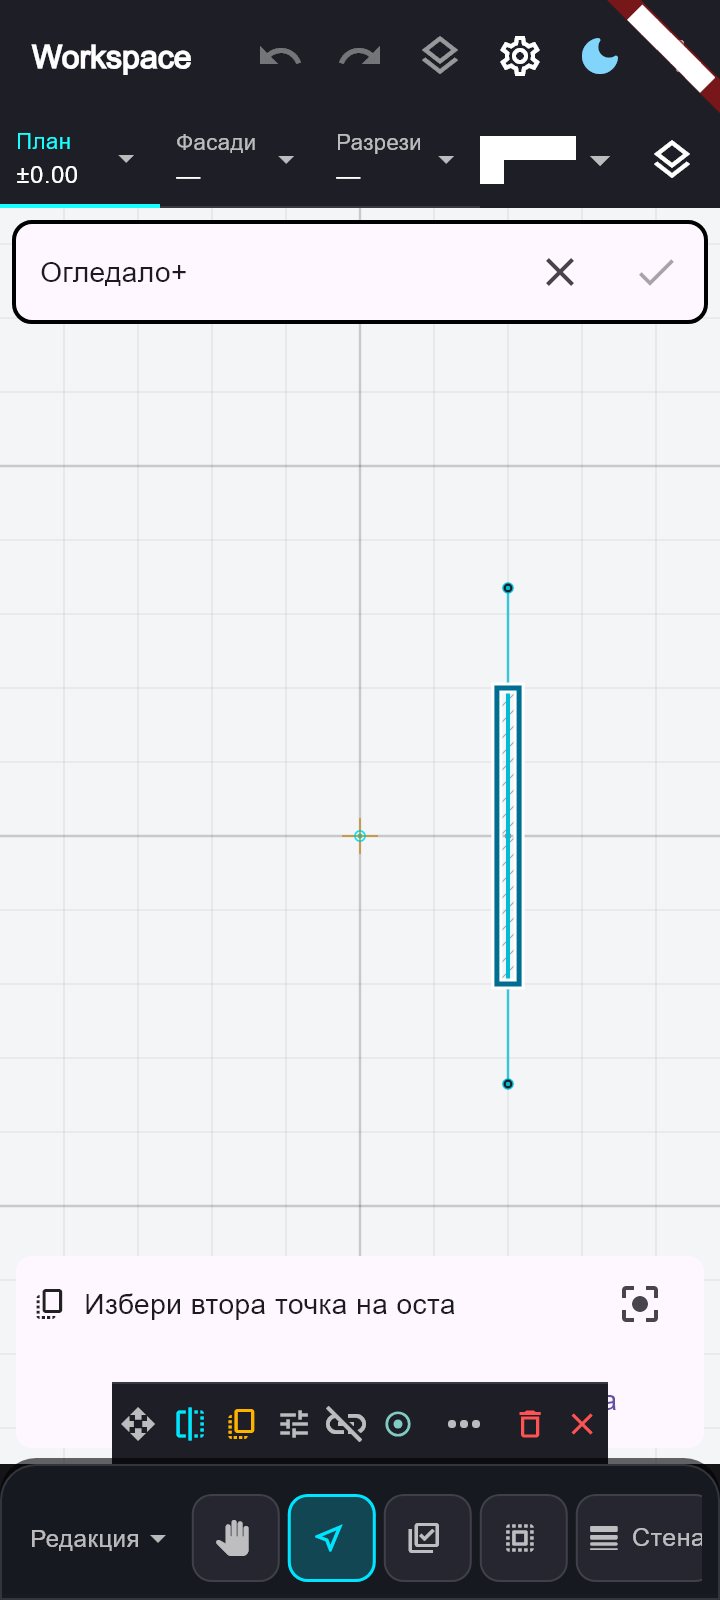
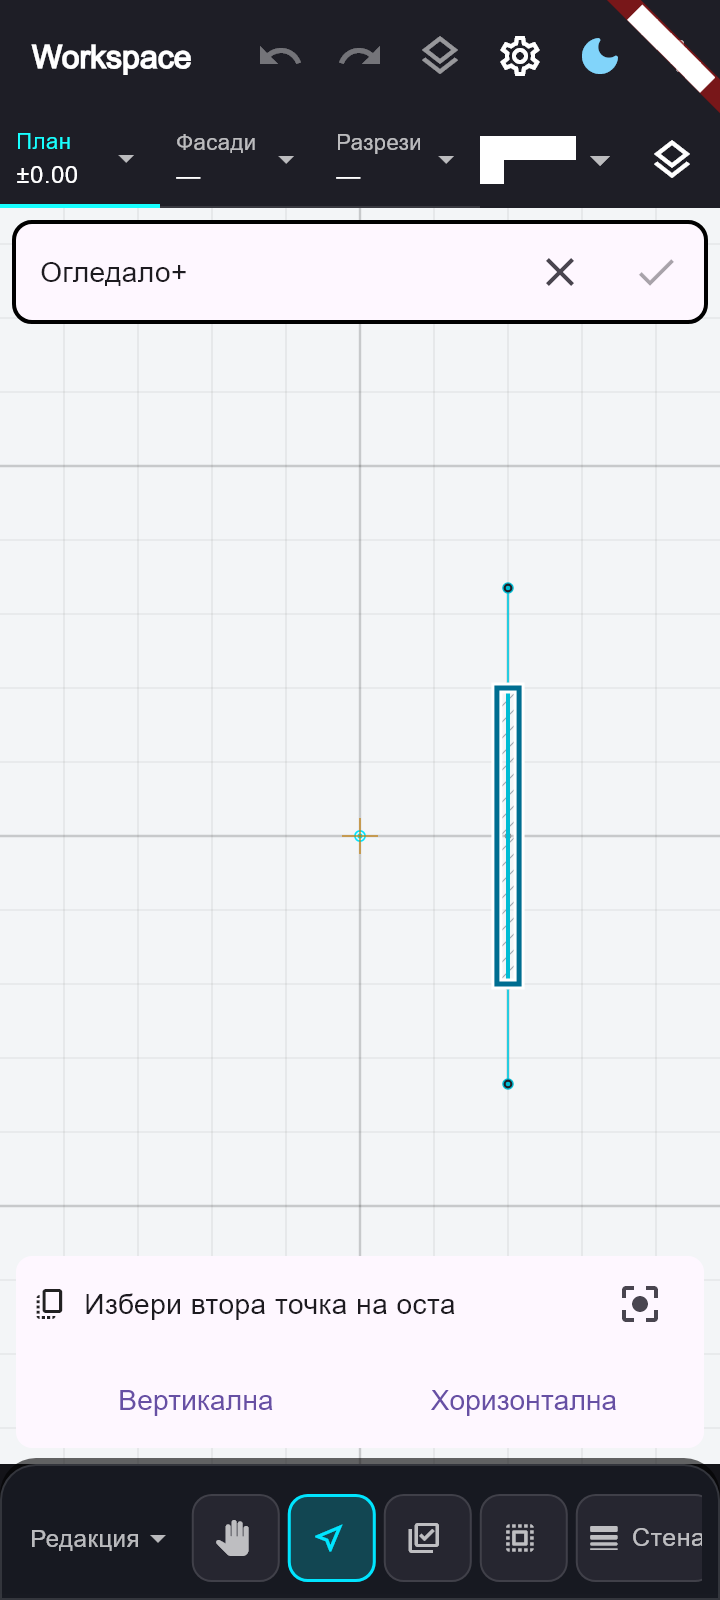
Довършване на потвърждението на геометрични команди

Changed region(s): [[0.1528, 0.8438, 0.8556, 0.9375]]

diff --git a/test/features/architect/command_preview_visual_qa_test.dart b/test/features/architect/command_preview_visual_qa_test.dart
@@ -4,6 +4,7 @@ import 'package:flutter/material.dart';
 import 'package:flutter/rendering.dart';
 import 'package:flutter/services.dart';
 import 'package:flutter_test/flutter_test.dart';
+import 'package:shared_preferences/shared_preferences.dart';
 import 'package:kotoview/src/core/l10n/generated/app_localizations.dart';
 import 'package:kotoview/src/features/architect/models/architect_project.dart';
 import 'package:kotoview/src/features/architect/screens/architect_workspace_screen.dart';
@@ -12,36 +13,64 @@ import 'architect_editing_test.dart' as editing;
 import 'architect_workspace_interaction_test.dart' as workspace;
 
 void main() {
-  testWidgets('Visual review of command controls on a Bulgarian phone', (tester) async {
+  testWidgets('Visual review of command controls on a Bulgarian phone', (
+    tester,
+  ) async {
     tester.view.physicalSize = const Size(360, 800);
     tester.view.devicePixelRatio = 1;
     addTearDown(tester.view.resetPhysicalSize);
     addTearDown(tester.view.resetDevicePixelRatio);
-    await tester.runAsync(() async {
-    await (FontLoader('Roboto')..addFont(File('C:/Windows/Fonts/arial.ttf').readAsBytes().then(ByteData.sublistView))).load();
-    await (FontLoader('MaterialIcons')..addFont(rootBundle.load('fonts/MaterialIcons-Regular.otf'))).load();
-    });
-    final model = editing.seeded(const ArchitectStorey(id: 's', name: '', walls: [scene.interior]));
+    SharedPreferences.setMockInitialValues({});
+    final captureImages =
+        Platform.environment['UPDATE_ARCHITECT_COMMAND_PREVIEW'] == 'true';
+    if (captureImages) {
+      await tester.runAsync(() async {
+        final font = File('C:/Windows/Fonts/arial.ttf');
+        if (await font.exists()) {
+          await (FontLoader(
+            'Roboto',
+          )..addFont(font.readAsBytes().then(ByteData.sublistView))).load();
+        }
+        await (FontLoader(
+          'MaterialIcons',
+        )..addFont(rootBundle.load('fonts/MaterialIcons-Regular.otf'))).load();
+      });
+    }
+    final model = editing.seeded(
+      const ArchitectStorey(id: 's', name: '', walls: [scene.interior]),
+    );
     addTearDown(model.dispose);
     const capture = ValueKey('command-visual-capture');
-    await tester.pumpWidget(RepaintBoundary(key: capture, child: MaterialApp(
-      locale: const Locale('bg'),
-      localizationsDelegates: AppLocalizations.localizationsDelegates,
-      supportedLocales: AppLocalizations.supportedLocales,
-      home: ArchitectWorkspaceScreen(commandController: model),
-    )));
+    await tester.pumpWidget(
+      RepaintBoundary(
+        key: capture,
+        child: MaterialApp(
+          locale: const Locale('bg'),
+          localizationsDelegates: AppLocalizations.localizationsDelegates,
+          supportedLocales: AppLocalizations.supportedLocales,
+          home: ArchitectWorkspaceScreen(commandController: model),
+        ),
+      ),
+    );
     await tester.pumpAndSettle();
-    workspace.camera(tester).fit(const Rect.fromLTRB(-4, -4, 4, 4), padding: 32);
+    workspace
+        .camera(tester)
+        .fit(const Rect.fromLTRB(-4, -4, 4, 4), padding: 32);
     await tester.pumpAndSettle();
     await editing.ensureSelectionTool(tester);
     await workspace.wallTap(tester, const Offset(2, -1));
     await tester.pumpAndSettle();
-    await tester.tap(find.byKey(const ValueKey('architect-selection-mirror-copy')));
+    await tester.tap(
+      find.byKey(const ValueKey('architect-selection-mirror-copy')),
+    );
     await tester.pumpAndSettle();
     await tester.tapAt(workspace.screen(tester, Offset.zero));
     await tester.pumpAndSettle();
     Future<void> screenshot(String name) async {
-      final boundary = tester.renderObject<RenderRepaintBoundary>(find.byKey(capture));
+      if (!captureImages) return;
+      final boundary = tester.renderObject<RenderRepaintBoundary>(
+        find.byKey(capture),
+      );
       await tester.runAsync(() async {
         final image = await boundary.toImage(pixelRatio: 2);
         final data = (await image.toByteData(format: ui.ImageByteFormat.png))!;
@@ -49,9 +78,21 @@ void main() {
         image.dispose();
       });
     }
+
     await screenshot('command_mirror_aim_bg');
-    await tester.tap(find.byKey(const ValueKey('architect-mirror-vertical-btn')));
+    await tester.tap(
+      find.byKey(const ValueKey('architect-mirror-vertical-btn')),
+    );
     await tester.pumpAndSettle();
+    expect(
+      tester
+          .widget<IconButton>(
+            find.byKey(const ValueKey('architect-command-apply')),
+          )
+          .onPressed,
+      isNotNull,
+    );
+    expect(workspace.overlay(tester).project.activeStorey.walls, hasLength(2));
     await screenshot('command_mirror_review_bg');
     expect(model.project.activeStorey.walls, hasLength(1));
     expect(tester.takeException(), isNull);

diff --git a/test/features/architect/architect_wall_join_and_visual_clearance_test.dart b/test/features/architect/architect_wall_join_and_visual_clearance_test.dart
@@ -47,6 +47,7 @@ void main() {
         await workspace.wallTap(tester, const Offset(5, 3));
         await tester.pumpAndSettle();
 
+        await editing.acceptGeometryCommand(tester);
         // Walls should now be joined at (5, 0)
         final storey = model.project.activeStorey;
         final joinedW1 = storey.walls.firstWhere((w) => w.id == 'w1');
@@ -85,7 +86,7 @@ void main() {
         expect(find.byKey(const ValueKey('architect-wall-join-banner')), findsOneWidget);
 
         // Tap close (X) icon in banner
-        await tester.tap(find.byKey(const ValueKey('architect-wall-join-cancel')));
+        await tester.tap(find.byKey(const ValueKey('architect-command-cancel')));
         await tester.pumpAndSettle();
         expect(find.byKey(const ValueKey('architect-wall-join-banner')), findsNothing);
       },
@@ -108,6 +109,8 @@ void main() {
 
         // Select both walls
         await workspace.wallTap(tester, const Offset(2, 0));
+        await tester.tap(find.byKey(const ValueKey('architect-multi-select')));
+        await tester.pumpAndSettle();
         await workspace.wallTap(tester, const Offset(5, 3));
         await tester.pumpAndSettle();
         expect(workspace.overlay(tester).selectedElementIds, {'w1', 'w2'});
@@ -117,7 +120,8 @@ void main() {
         await tester.tap(joinButton);
         await tester.pumpAndSettle();
 
-        // Joined immediately at intersection (5, 0)
+        await editing.acceptGeometryCommand(tester);
+        // Accepted at intersection (5, 0)
         final storey = model.project.activeStorey;
         final joinedW1 = storey.walls.firstWhere((w) => w.id == 'w1');
         final joinedW2 = storey.walls.firstWhere((w) => w.id == 'w2');
@@ -291,6 +295,7 @@ void main() {
         await tester.tapAt(workspace.screen(tester, const Offset(3, 1)));
         await tester.pumpAndSettle();
 
+        await editing.acceptGeometryCommand(tester);
         final updatedStorey = model.project.activeStorey;
         final updatedW1 = updatedStorey.walls.firstWhere((w) => w.id == 'w1');
         final updatedW2 = updatedStorey.walls.firstWhere((w) => w.id == 'w2');
@@ -343,6 +348,7 @@ void main() {
         await tester.tap(find.byKey(const ValueKey('architect-wall-ref-outer')));
         await tester.pumpAndSettle();
 
+        await editing.acceptGeometryCommand(tester);
         // Wall reference line should now be outer
         var wall = model.project.activeStorey.walls.firstWhere((w) => w.id == 'w1');
         expect(wall.referenceLine, WallReferenceLine.outer);
@@ -354,6 +360,7 @@ void main() {
         await tester.tap(find.byKey(const ValueKey('architect-wall-ref-inner')));
         await tester.pumpAndSettle();
 
+        await editing.acceptGeometryCommand(tester);
         wall = model.project.activeStorey.walls.firstWhere((w) => w.id == 'w1');
         expect(wall.referenceLine, WallReferenceLine.inner);
         expect(find.descendant(of: refSelector, matching: find.text('Inside')), findsOneWidget);

diff --git a/lib/src/features/architect/screens/architect_workspace_screen.dart b/lib/src/features/architect/screens/architect_workspace_screen.dart
@@ -21842,6 +21842,7 @@ class _ArchitectWorkspaceScreenState extends State<ArchitectWorkspaceScreen> {
 
                   _cancelActiveDrags();
 
+                  _beginGeometryCommand(ArchitectRadialAction.straighten);
                   _commands.commit(command?.apply(edited) ?? edited);
 
                   _saveBiMProjectIfAttached();
@@ -24082,7 +24083,10 @@ class _ArchitectWorkspaceScreenState extends State<ArchitectWorkspaceScreen> {
   }
 
   Widget _buildSelectionBar() {
-    if (_commandReady) return const SizedBox.shrink();
+    if (_commandReady ||
+        (_commandPreview != null && _commandAction != ArchitectRadialAction.move)) {
+      return const SizedBox.shrink();
+    }
     final l = context.l10n;
     final ids = _effectiveSelection;
 
@@ -27130,7 +27134,7 @@ class _ArchitectWorkspaceScreenState extends State<ArchitectWorkspaceScreen> {
 
                                   const SizedBox(width: 12),
 
-                                  GestureDetector(
+                                  if (_commandPreview == null) GestureDetector(
 
                                     key: const ValueKey(
 

diff --git a/test/features/architect/architect_editing_test.dart b/test/features/architect/architect_editing_test.dart
@@ -750,6 +750,7 @@ void main() {
       await move.moveTo(workspace.screen(tester, const Offset(0, 1)));
       await move.up();
       await tester.pump();
+      await acceptGeometryCommand(tester);
       expect(
         model.project.activeStorey.walls[1].startPoint,
         const Offset(2, 1),
@@ -804,6 +805,7 @@ void main() {
       await tester.pumpAndSettle();
       await tester.tapAt(workspace.screen(tester, const Offset(3, 2)));
       await tester.pumpAndSettle();
+      await acceptGeometryCommand(tester);
       expect(
         model.project.activeStorey.walls.first.endPoint,
         const Offset(3, 0),

diff --git a/test/features/architect/architect_wall_straighten_test.dart b/test/features/architect/architect_wall_straighten_test.dart
@@ -40,6 +40,8 @@ void main() {
       await tester.tap(straightenFinder);
       await tester.pumpAndSettle();
 
+      expect(model.undoCount, 0);
+      await editing.acceptGeometryCommand(tester);
       // Check wall 'a' is straightened onto the horizontal axis (dy == 0) while preserving length
       final updatedA = model.project.activeStorey.walls.firstWhere(
         (w) => w.id == 'a',
